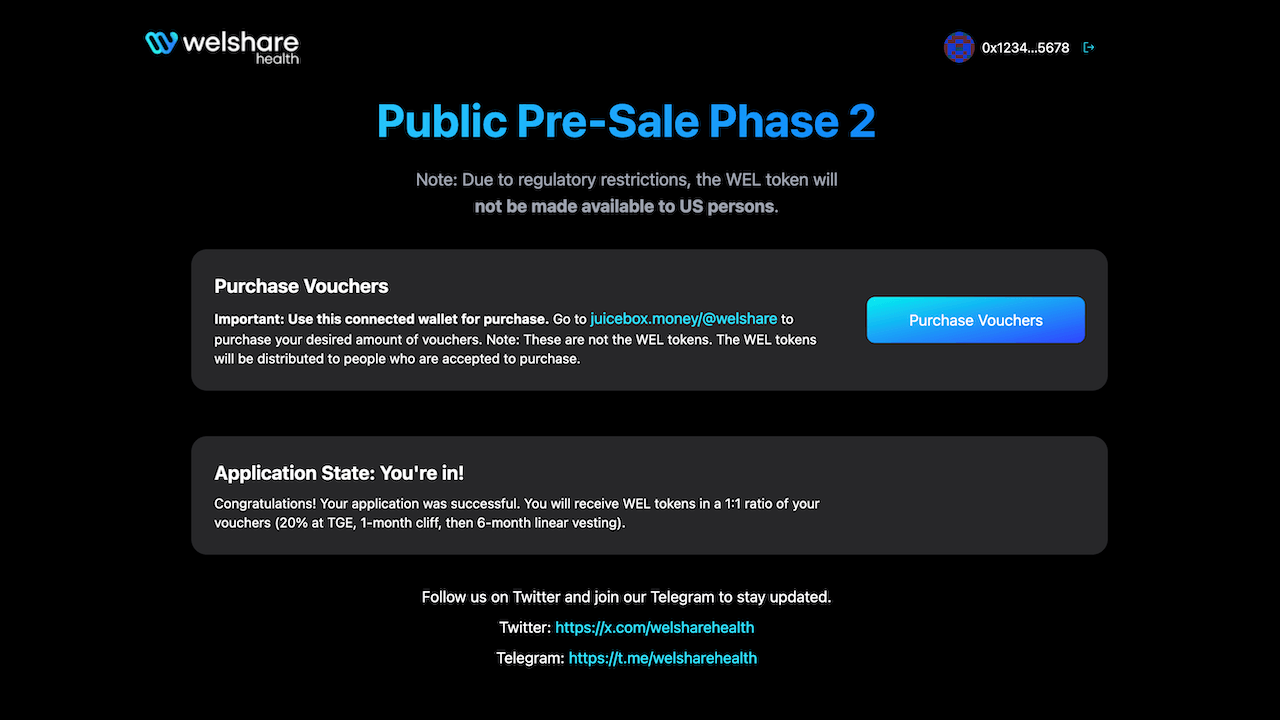
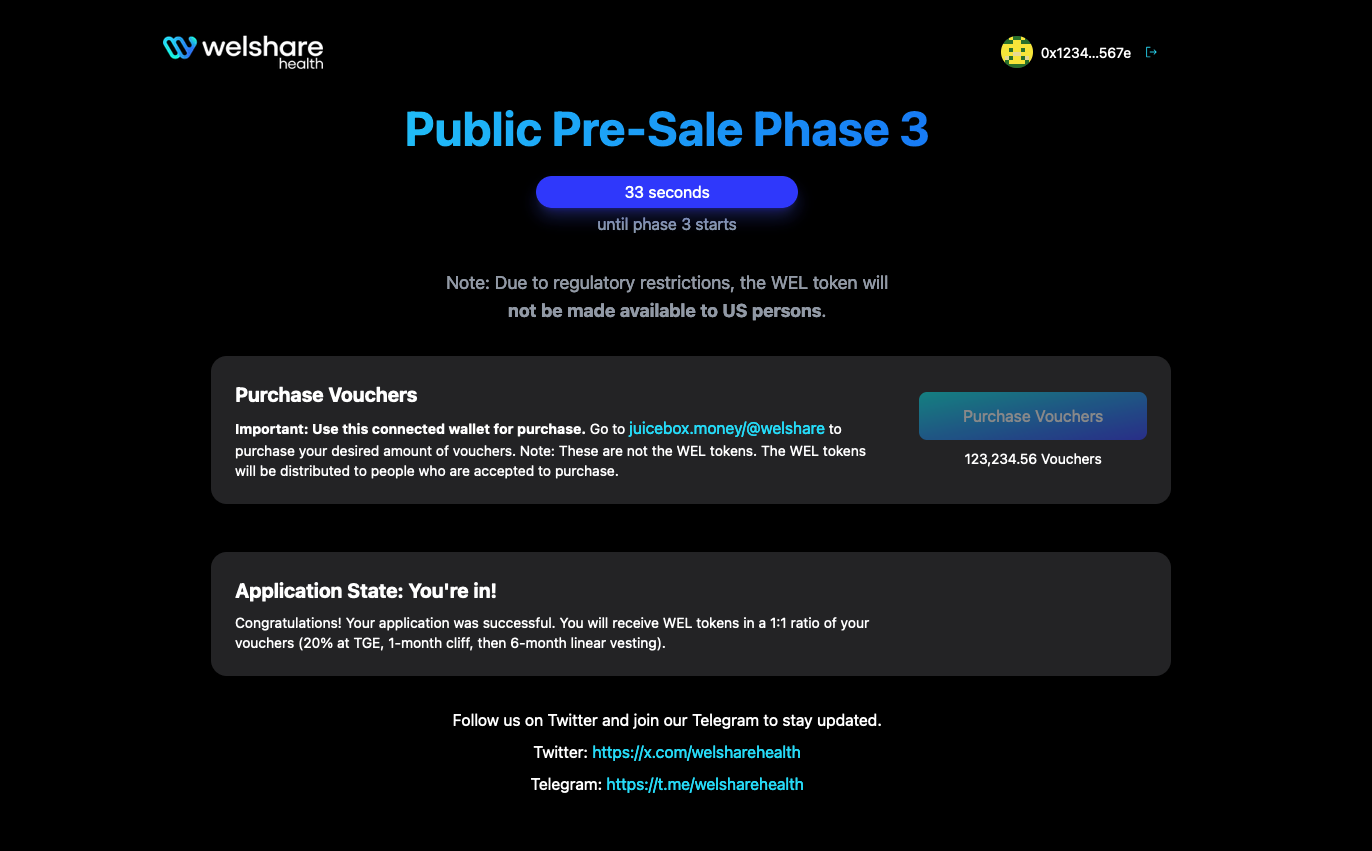
fetches voucher amount from spreadsheet phase 3 headers adds countdown control countdown just disappears when time's up togglinng button state by timers

diff --git a/src/components/SignedinActions.tsx b/src/components/SignedinActions.tsx
@@ -6,6 +6,7 @@ import { Address, formatEther } from "viem";
 import { useAccount } from "wagmi";
 import PersonaFlow from "./PersonaFlow";
 import { Button } from "@nextui-org/button";
+import { PHASE3_ENDS, PHASE3_STARTS } from "@/app/constants";
 
 type Participant = {
   id: string;
@@ -41,30 +42,7 @@ export default function SignedInActions({
   referrer?: string | null;
 }) {
   const { address } = useAccount();
-  const [participant, setParticipant] = useState<Participant | null>();
-
-  useEffect(() => {
-    if (!address) return;
-    (async () => {
-      const res = await (
-        await fetch(`/api/jb?address=${address.toLowerCase()}`)
-      ).json();
-      if (res.data.participant) {
-        setParticipant({
-          id: res.data.participant.id,
-          projectId: res.data.participant.projectId,
-          address: res.data.participant.address,
-          balance: BigInt(res.data.participant.balance),
-          volume: BigInt(res.data.participant.volume),
-          volumeUSD: BigInt(res.data.participant.volumeUSD),
-          paymentsCount: res.data.participant.paymentsCount,
-          stakedBalance: BigInt(res.data.participant.stakedBalance),
-        });
-      } else {
-        setParticipant(null);
-      }
-    })();
-  }, [address]);
+  const [voucherAmount, setVoucherAmount] = useState<string | null>();
 
   useEffect(() => {
     if (!address) return;
@@ -78,6 +56,7 @@ export default function SignedInActions({
       }
 
       const res = await fetchRes.json();
+      setVoucherAmount(res.allocation);
 
       if (res.status === "N") {
         //seems unused
@@ -102,9 +81,27 @@ export default function SignedInActions({
     })();
   }, [address]);
 
-  let voucherAmount = participant
-    ? formatCurrency(participant.balance)
-    : undefined;
+  const [phase3Active, setPhase3Active] = useState(false);
+
+  useEffect(() => {
+    let timer: any;
+    const now = +new Date();
+    if (now < PHASE3_STARTS) {
+      setPhase3Active(false);
+      timer = setTimeout(() => {
+        setPhase3Active(true);
+      }, PHASE3_STARTS - now);
+    } else if (now < PHASE3_ENDS) {
+      setPhase3Active(true);
+      timer = setTimeout(() => {
+        setPhase3Active(false);
+      }, PHASE3_ENDS - now);
+    } else {
+      setPhase3Active(false);
+    }
+
+    return () => clearTimeout(timer);
+  });
 
   return (
     <>
@@ -131,6 +128,7 @@ export default function SignedInActions({
               <Button
                 radius="sm"
                 size="lg"
+                isDisabled={!phase3Active}
                 className="w-full bg-gradient-to-br from-[#07F1EF] to-[#3045FF] px-12"
                 as={Link}
                 href="https://juicebox.money/@welshare"

diff --git a/src/components/Countdown.tsx b/src/components/Countdown.tsx
@@ -4,9 +4,15 @@ import React, { useState, useEffect } from "react";
 import { Chip } from "@nextui-org/chip";
 
 //todo: must be timezone agnostic!
-const Countdown = ({ targetDate }: { targetDate: string }) => {
+const Countdown = ({
+  targetDate,
+  children,
+}: {
+  targetDate: Date;
+  children: React.ReactNode;
+}) => {
   const calculateTimeLeft = () => {
-    const difference = +new Date(targetDate) - +new Date();
+    const difference = +targetDate - +new Date();
     let timeLeft = {};
 
     if (difference > 0) {
@@ -43,16 +49,16 @@ const Countdown = ({ targetDate }: { targetDate: string }) => {
     }
   });
 
+  if (!timerComponents.length) {
+    return null;
+  }
+
   return (
-    <div className="flex flex-col items-center justify-center gap-2">
-      <Chip variant="shadow" size="lg" color="primary" className="p-4">
-        {timerComponents.length ? (
-          timerComponents
-        ) : (
-          <span>Time&apos;s up!</span>
-        )}
+    <div className="flex flex-col items-center justify-center gap-1">
+      <Chip variant="shadow" size="lg" color="secondary" className="p-4 px-20">
+        {timerComponents}
       </Chip>
-      <p className="text-slate-400">until phase 3 starts</p>
+      <p className="text-slate-400">{children}</p>
     </div>
   );
 };

diff --git a/src/app/page.tsx b/src/app/page.tsx
@@ -1,14 +1,35 @@
 import Countdown from "@/components/Countdown";
 import SignedInFlow from "@/components/SignedInFlow";
 import { cookies } from "next/headers";
+import { COUNTDOWN_STARTS, PHASE3_ENDS, PHASE3_STARTS } from "./constants";
 
 export default function Home() {
   const referrer = cookies().get("referrer")?.value;
 
-  //todo: make 2 countdowns, one until sale stars, then one until sale ends
+  const now = new Date().getTime();
+
+  let countdown: JSX.Element | null = null;
+  if (now > COUNTDOWN_STARTS) {
+    if (now < PHASE3_STARTS) {
+      countdown = (
+        <Countdown targetDate={new Date(PHASE3_STARTS)}>
+          until phase 3 starts
+        </Countdown>
+      );
+    } else if (now < PHASE3_ENDS) {
+      countdown = (
+        <Countdown targetDate={new Date(PHASE3_ENDS)}>
+          until phase 3 ends
+        </Countdown>
+      );
+    } else {
+      countdown = null;
+    }
+  }
+
   return (
     <div className="flex flex-col items-center justify-center gap-8 ">
-      <Countdown targetDate="2024-10-16T17:00:00" />
+      {countdown}
 
       <SignedInFlow referrer={referrer} />
     </div>

diff --git a/src/app/layout.tsx b/src/app/layout.tsx
@@ -15,10 +15,10 @@ const inter = Inter({
 export const metadata: Metadata = {
   metadataBase: new URL("https://presale.welshare.health"),
   title: {
-    default: "Welshare Presale Phase 2",
-    template: "%s | Welshare Presale Phase 2",
+    default: "Welshare Presale Phase 3",
+    template: "%s | Welshare Presale Phase 3",
   },
-  description: "Apply for the $WEL Token now - Welshare Presale Phase 2",
+  description: "Apply for the $WEL Token now - Welshare Presale Phase 3",
   publisher: "Welshare Health UG",
   authors: [
     {
@@ -58,7 +58,7 @@ export default function RootLayout({
             <Providers>
               <Header />
               <h1 className="text-center mb-6 text-3xl md:text-5xl font-bold bg-clip-text text-transparent bg-gradient-to-r from-[#2DE1FB] to-[#086BFA]">
-                Public Pre-Sale Phase 2
+                Public Pre-Sale Phase 3
               </h1>
               {children}
               <Analytics />

diff --git a/src/app/api/status/route.ts b/src/app/api/status/route.ts
@@ -25,11 +25,11 @@ export const GET = async (req: NextRequest) => {
 
   const result = await Sheets.spreadsheets.values.get({
     spreadsheetId: SPREADSHEET_ID,
-    range: "Sheet1!A2:C1250",
+    range: "Sheet1!A2:D1250",
   });
 
   const entry = result.data.values?.find(
-    (val: any[3]) => val[0].toLowerCase() === address.toLowerCase()
+    (val: any[4]) => val[0].toLowerCase() === address.toLowerCase()
   );
 
   if (!entry) {
@@ -40,6 +40,7 @@ export const GET = async (req: NextRequest) => {
     address: entry?.[0],
     status: entry?.[1],
     final_approval: entry?.[2],
+    allocation: entry?.[3] === "#N/A" ? null : entry?.[3],
   });
   return response;
 };

diff --git a/tailwind.config.ts b/tailwind.config.ts
@@ -26,6 +26,7 @@ const config: Config = {
         dark: {
           colors: {
             primary: "#2DE1FB",
+            secondary: "#3045FF",
           },
         },
       },

diff --git a/src/app/constants.ts b/src/app/constants.ts
@@ -1,0 +1,3 @@
+export const COUNTDOWN_STARTS = 1729004400 * 1000;
+export const PHASE3_STARTS = 1729090800 * 1000;
+export const PHASE3_ENDS = 1729092600 * 1000;
